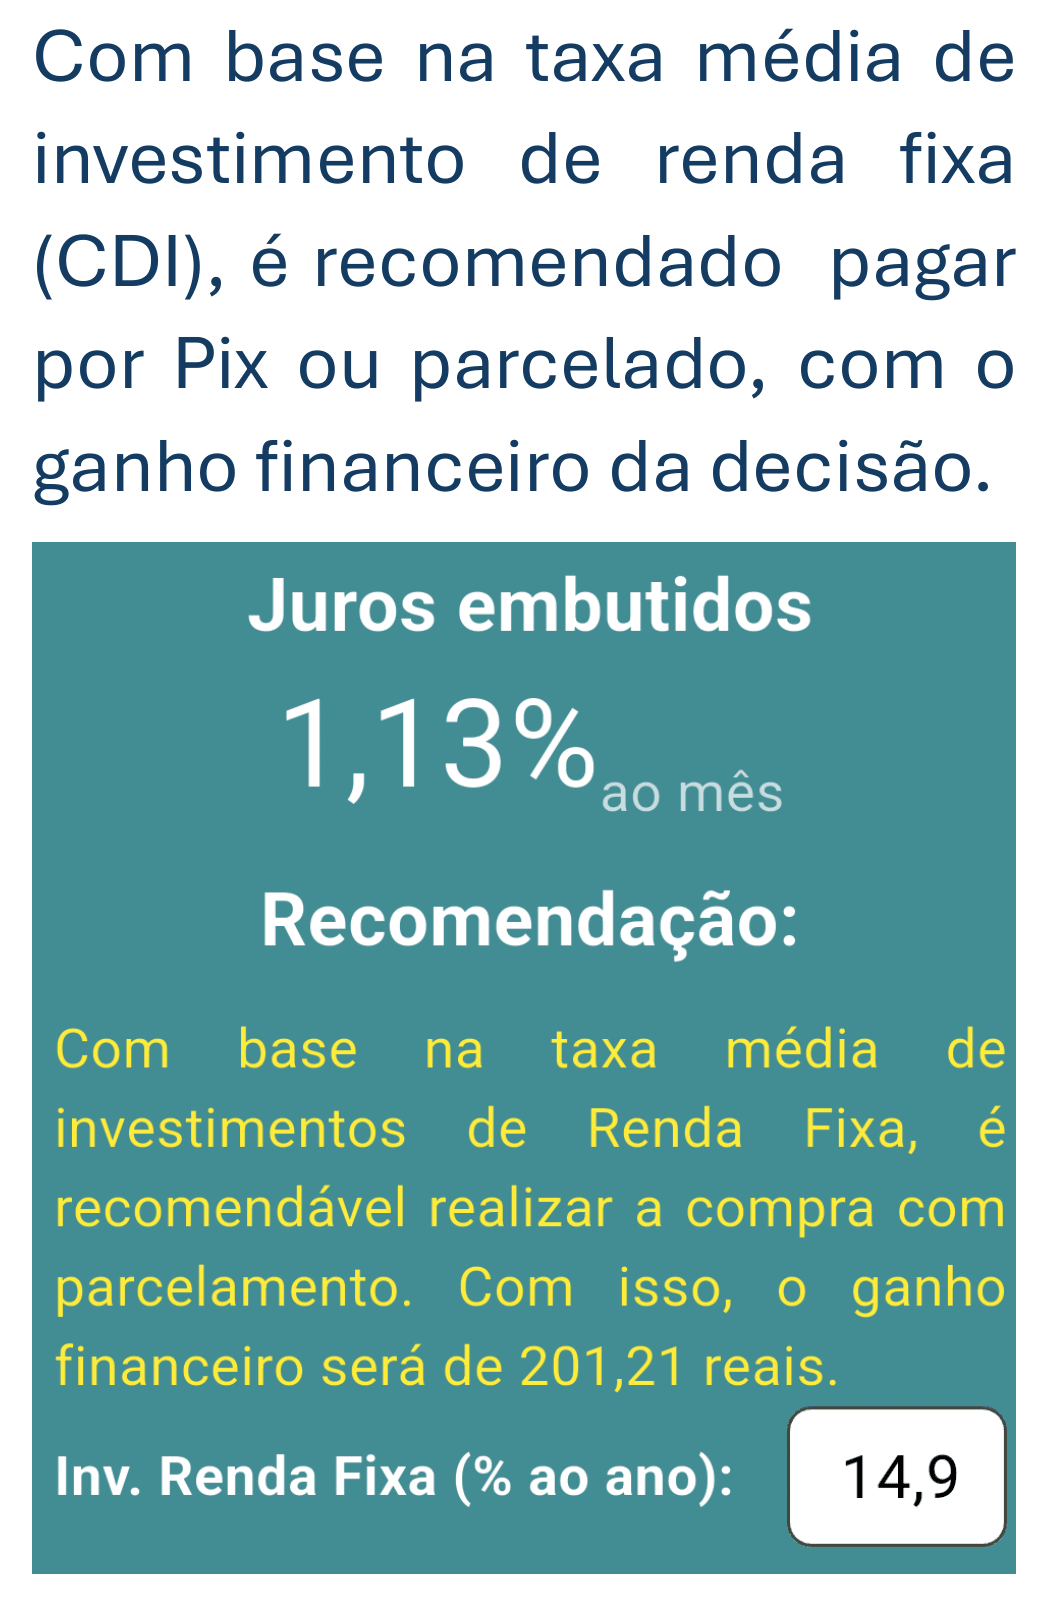
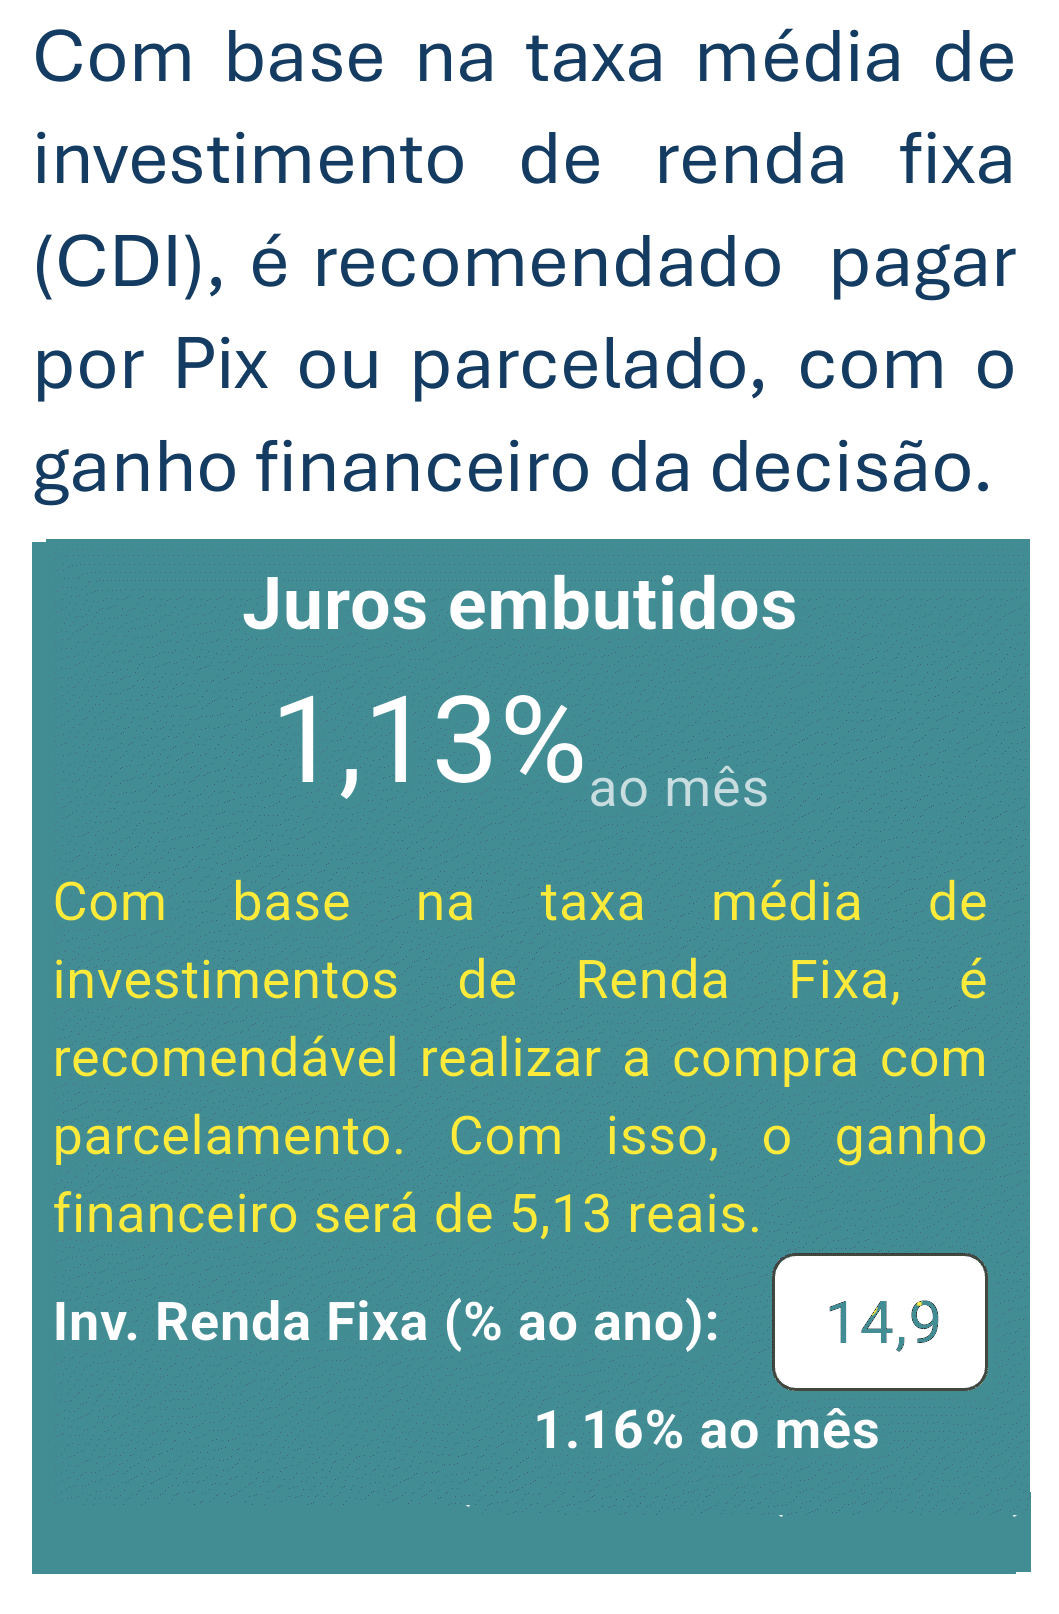
Build 9 do SemJuros

Changed region(s): [[0.0312, 0.3408, 0.9972, 0.9913], [0.2181, 0.3408, 0.779, 0.4027], [0.2493, 0.4337, 0.3428, 0.4957]]

diff --git a/lib/main.dart b/lib/main.dart
@@ -469,9 +469,10 @@ class _HomeScreenState extends State<HomeScreen> {
   }
 
   void _onpixChanged(String texto) {
-    _FormatarDecimal(_pixController);
+    //_FormatarDecimal(_pixController);
     _persistenteDica = false;
-     _calcularTaxa();
+    _calcularTaxa();
+
   }
 
   double _R(double valor, double tx) {
@@ -499,7 +500,7 @@ class _HomeScreenState extends State<HomeScreen> {
         for (int i = 0; i < parcelas; i++) {
           ganho = _R(ganho, taxrf);
         }
-        ganho = ganho / pow(taxrf, parcelas).toDouble();
+        //ganho = ganho / pow(taxrf, parcelas).toDouble();
 
         //ganho = pix * (pow(1+double.parse(_TxReferencialController.text.replaceAll(',','.')) / 100.0, parcelas/12)-1) - (parcelado - pix);
         pix_parcelamento = (ganho < 0) ? 'utilizando PIX. Com isso, o' : 'com parcelamento. Com isso, o';
